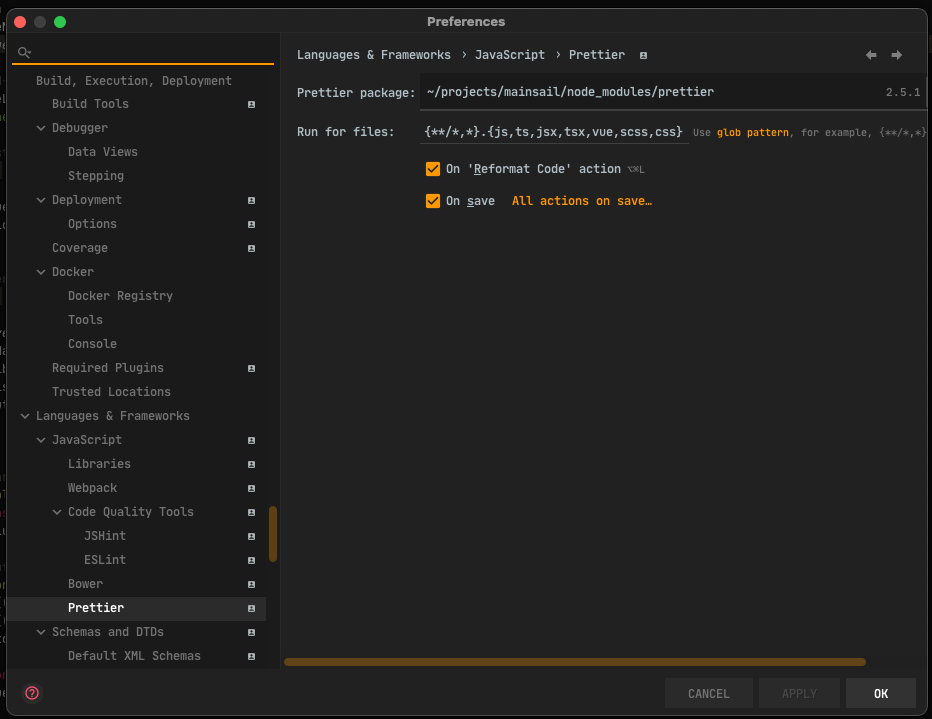
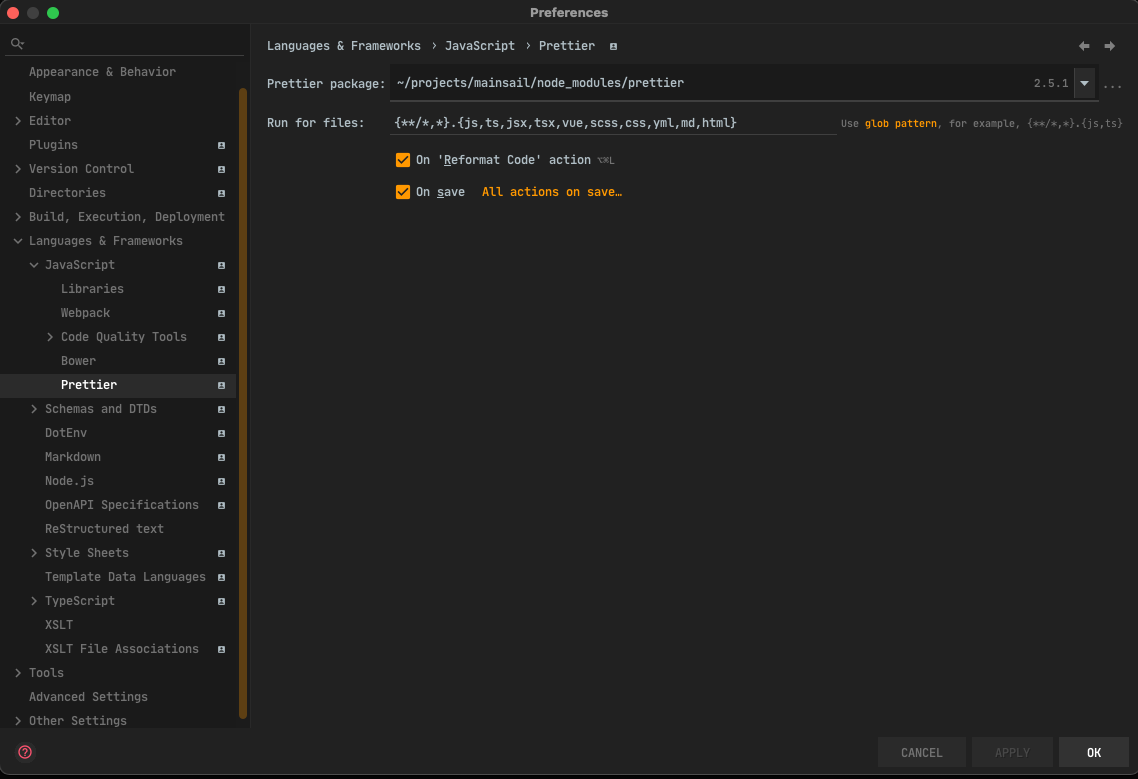
update prettier screenshot

diff --git a/development/code-standards.md b/development/code-standards.md
@@ -27,7 +27,7 @@ To make it easier for yourself, you can use the intergrations of the Jetbrains I
 Add this integration by:
 - Adding the [prettier plugin](https://plugins.jetbrains.com/plugin/10456-prettier) through plugins. 
 - Going to Preferences -> Languages and Frameworks -> Prettier.
-- Set 'Run for files' to `{**/*,*}.{js,ts,jsx,tsx,vue,scss,css}`
+- Set 'Run for files' to `{**/*,*}.{js,ts,jsx,tsx,vue,scss,css,yml,md,html}`
 - Tick the `On save` and `On 'Reformat code' action` boxes
 
 So it looks like this:
